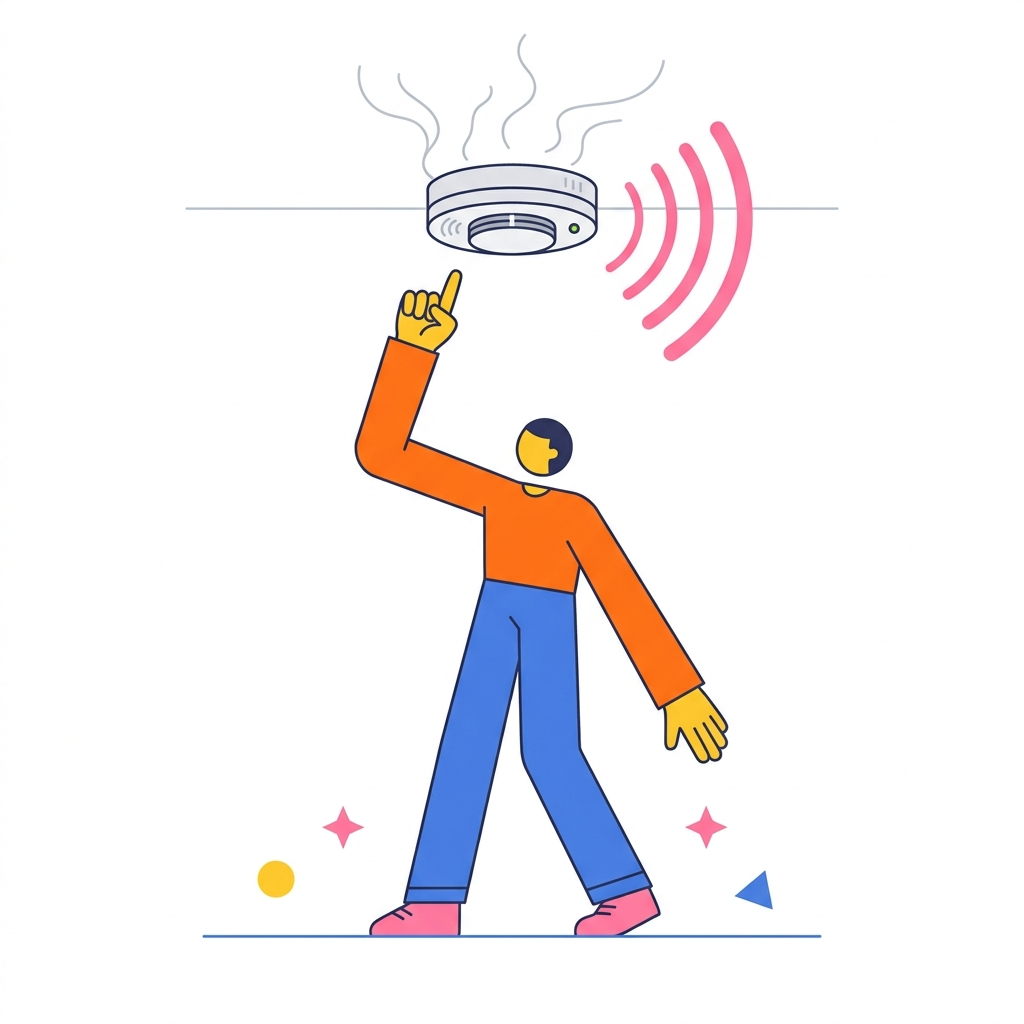
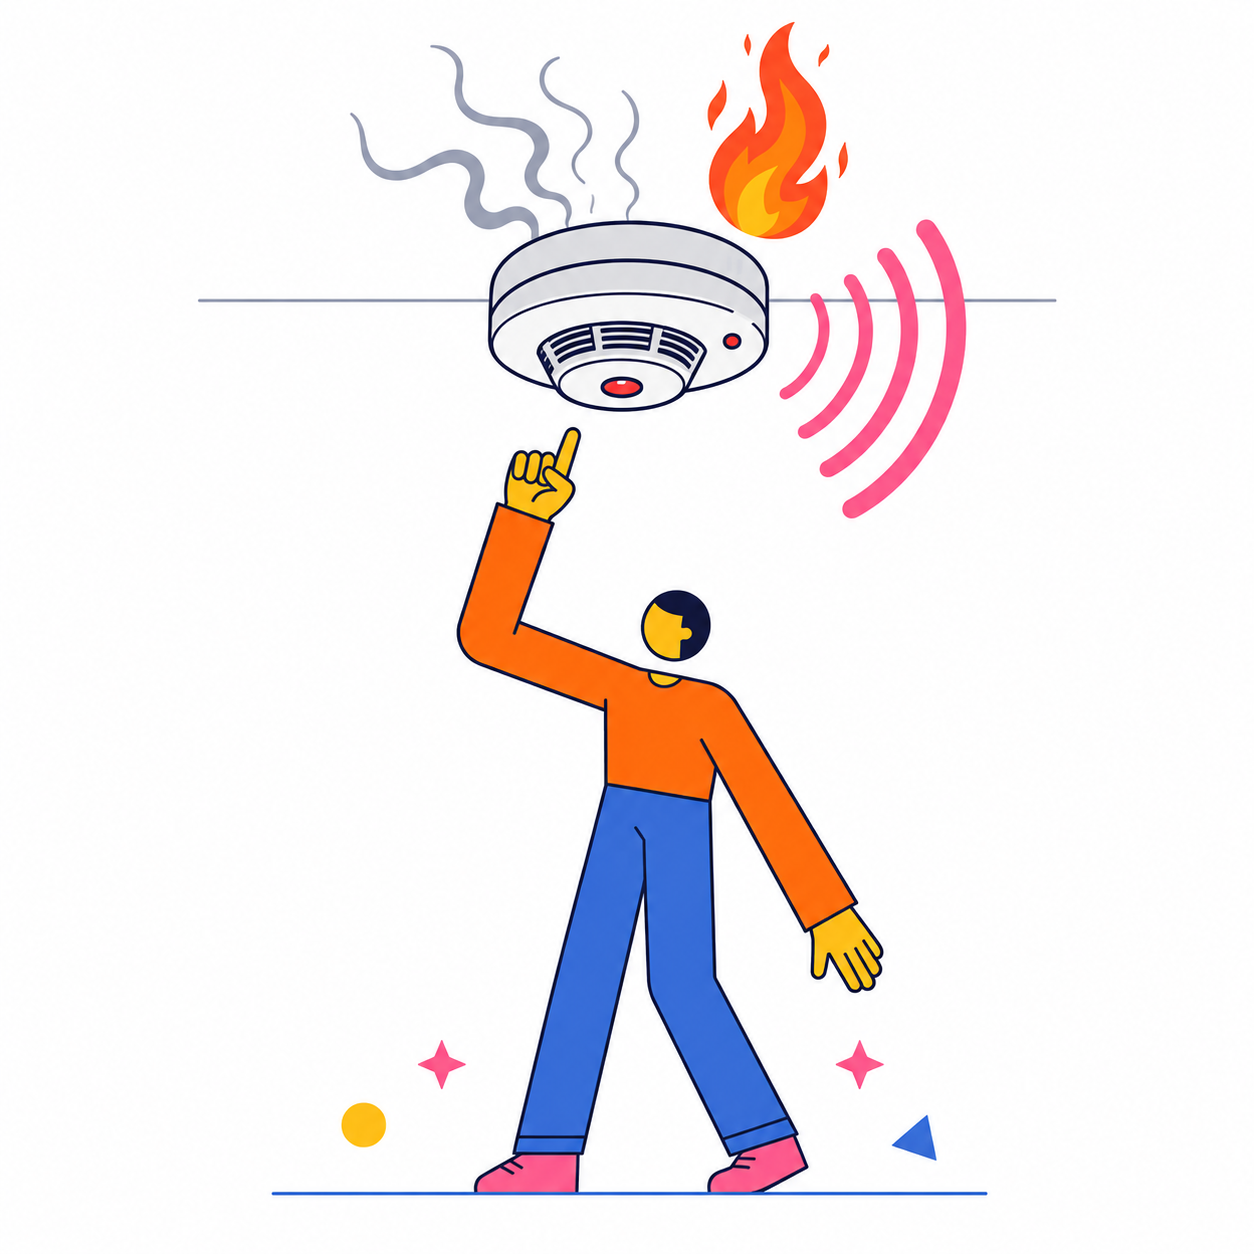
update UI dashboard

Changed region(s): [[0.2188, 0.0312, 0.7812, 0.9688]]

diff --git a/src/components/Hero.tsx b/src/components/Hero.tsx
@@ -10,36 +10,28 @@ import hero2 from '../assets/images/hero_2.png';
 import hero3 from '../assets/images/hero_3.png';
 import hero4 from '../assets/images/hero_4.png';
 
-const CAROUSEL_INTERVAL = 7000; // 7 seconds
+const CAROUSEL_INTERVAL = 10000; // 10 seconds
 
 const slides = [
   {
     id: 1,
     image: hero1,
-    prefix: 'Protecting your',
-    typewriter: 'Properties, Home & Family.',
-    text: 'Smart home security that watches over what matters most, 24/7.'
+    subtext: 'Smart home security that watches over what matters most, 24/7.'
   },
   {
     id: 2,
     image: hero2,
-    prefix: 'Getting instant',
-    typewriter: 'Phone Alerts.',
-    text: 'Receive an immediate SMS, Email, or WhatsApp message the moment anything unusual happens.'
+    subtext: 'Receive an immediate SMS, Email, or WhatsApp message the moment anything unusual happens.'
   },
   {
     id: 3,
     image: hero3,
-    prefix: 'Securing your',
-    typewriter: 'Business.',
-    text: 'Powerful protection for offices, warehouses, and entire residential communities.'
+    subtext: 'Powerful protection for Offices, Warehouses, Schools, Estates, Institutions and entire residential communities.'
   },
   {
     id: 4,
     image: hero4,
-    prefix: 'Sending help',
-    typewriter: 'When You Need It.',
-    text: 'Our rapid response team is dispatched immediately to stop threats before they escalate.'
+    subtext: 'Our rapid response team is dispatched immediately to stop threats before they escalate.'
   }
 ];
 
@@ -55,6 +47,7 @@ const Hero: React.FC = () => {
 
   return (
     <section className="relative h-screen w-full overflow-hidden bg-slate-950 text-white flex items-center justify-center">
+
       {/* Background Carousel */}
       <AnimatePresence mode="popLayout">
         <motion.img
@@ -70,56 +63,64 @@ const Hero: React.FC = () => {
       </AnimatePresence>
 
       {/* Overlays for legibility */}
-      <div className="absolute inset-0 bg-gradient-to-b from-slate-950/60 via-slate-950/20 to-slate-950/80 pointer-events-none" />
-      <div className="absolute inset-0 bg-black/30 pointer-events-none" />
+      <div className="absolute inset-0 bg-gradient-to-b from-slate-950/70 via-slate-950/40 to-slate-950/90 pointer-events-none" />
+      <div className="absolute inset-0 bg-black/50 pointer-events-none" />
 
       {/* Content */}
-      <div className="relative z-10 w-full max-w-7xl mx-auto px-4 sm:px-6 lg:px-8 text-center flex flex-col items-center">
-        
-        <motion.div 
+      <div className="relative z-10 w-full max-w-7xl mx-auto px-4 sm:px-6 lg:px-8 text-center flex flex-col items-center space-y-4">
+
+        <motion.div
           initial={{ opacity: 0, y: -10 }}
           animate={{ opacity: 1, y: 0 }}
           transition={{ duration: 0.5 }}
-          className="inline-flex items-center gap-2 px-4 py-2 rounded-full bg-white/10 backdrop-blur-md border border-white/20 text-white text-xs font-semibold uppercase tracking-wider mb-8"
+          className="inline-flex items-center gap-2 px-4 py-2 rounded-full bg-white/10 backdrop-blur-md border border-white/20 text-white text-xs font-semibold uppercase tracking-wider mb-10"
         >
           <Radio className="w-3.5 h-3.5 animate-pulse text-blue-400" />
           System Status: Online
         </motion.div>
 
-        <h1 className="text-4xl sm:text-6xl md:text-7xl font-display font-extrabold tracking-tight leading-tight mb-6 h-[140px] md:h-[180px] flex flex-col justify-center">
-          <span className="block text-slate-300 font-light tracking-wide text-3xl sm:text-4xl mb-2">
-            {slides[currentSlide].prefix}
-          </span>
-          <AnimatePresence mode="wait">
-            <motion.span
-              key={slides[currentSlide].typewriter}
-              initial={{ opacity: 0, y: 20 }}
-              animate={{ opacity: 1, y: 0 }}
-              exit={{ opacity: 0, y: -20 }}
-              transition={{ duration: 0.5 }}
-              className="block bg-gradient-to-r from-blue-400 via-indigo-400 to-emerald-400 bg-clip-text text-transparent"
-            >
-              {slides[currentSlide].typewriter}
-            </motion.span>
-          </AnimatePresence>
-        </h1>
+        {/* Fixed Main Heading */}
+        <motion.h1
+          initial={{ opacity: 0, y: -20 }}
+          animate={{ opacity: 1, y: 0 }}
+          transition={{ duration: 0.8 }}
+          className="text-4xl sm:text-5xl md:text-6xl font-display font-extrabold tracking-tight leading-tight mb-2 text-white"
+        >
+          SNOSFORTRESS
+        </motion.h1>
 
-        <div className="h-[60px] md:h-[40px] mb-10 overflow-hidden relative w-full max-w-2xl mx-auto">
+        {/* Fixed Sub-heading */}
+        <motion.h2
+          initial={{ opacity: 0, y: -10 }}
+          animate={{ opacity: 1, y: 0 }}
+          transition={{ duration: 0.8, delay: 0.1 }}
+          className="text-3xl sm:text-2xl md:text-3xl font-display font-medium text-slate-300 mb-8 tracking-wide"
+        >
+          Smart Security Network
+        </motion.h2>
+
+        {/* Carousel Subtext */}
+        <motion.div
+          initial={{ opacity: 0, y: 20 }}
+          animate={{ opacity: 1, y: 0 }}
+          transition={{ duration: 0.5 }}
+          className="mb-10 min-h-[60px] max-w-2xl mx-auto"
+        >
           <AnimatePresence mode="wait">
             <motion.p
-              key={slides[currentSlide].text}
+              key={slides[currentSlide].id}
               initial={{ opacity: 0, filter: 'blur(10px)' }}
               animate={{ opacity: 1, filter: 'blur(0px)' }}
               exit={{ opacity: 0, filter: 'blur(10px)' }}
-              transition={{ duration: 0.8 }}
-              className="text-lg sm:text-xl text-slate-200 font-sans leading-relaxed absolute inset-0 w-full text-center"
+              transition={{ duration: 0.5 }}
+              className="text-lg sm:text-xl text-slate-200 font-sans leading-relaxed text-center"
             >
-              {slides[currentSlide].text}
+              {slides[currentSlide].subtext}
             </motion.p>
           </AnimatePresence>
-        </div>
+        </motion.div>
 
-        <motion.div 
+        <motion.div
           initial={{ opacity: 0, y: 20 }}
           animate={{ opacity: 1, y: 0 }}
           transition={{ duration: 0.8, delay: 0.2 }}
@@ -136,7 +137,7 @@ const Hero: React.FC = () => {
         {/* Carousel Indicators */}
         <div className="mt-12 flex items-center gap-3">
           {slides.map((_, idx) => (
-            <button 
+            <button
               key={idx}
               onClick={() => setCurrentSlide(idx)}
               className={`transition-all duration-500 rounded-full ${

diff --git a/src/components/About.tsx b/src/components/About.tsx
@@ -1,6 +1,7 @@
 import React from 'react';
 import { ArrowRight, ShieldAlert, Flame, Lock } from 'lucide-react';
 import { motion } from 'motion/react';
+import { Link } from 'react-router-dom';
 
 // New Illustrations
 import fenceImg from '../assets/images/alegria_fence.png';
@@ -111,9 +112,9 @@ const About: React.FC = () => {
           transition={{ delay: 0.4 }}
           className="text-center mt-12"
         >
-          <a href="#more-scenarios" onClick={(e) => e.preventDefault()} className="inline-flex items-center gap-2 bg-blue-100 dark:bg-blue-900/30 text-blue-700 dark:text-blue-300 hover:bg-blue-200 dark:hover:bg-blue-900/50 px-6 py-3 rounded-2xl font-bold transition-colors group">
+          <Link to="/what-we-offer" className="inline-flex items-center gap-2 bg-blue-100 dark:bg-blue-900/30 text-blue-700 dark:text-blue-300 hover:bg-blue-200 dark:hover:bg-blue-900/50 px-6 py-3 rounded-2xl font-bold transition-colors group">
             See More Use Cases <ArrowRight className="w-5 h-5 group-hover:translate-x-1 transition-transform" />
-          </a>
+          </Link>
         </motion.div>
 
       </div>
